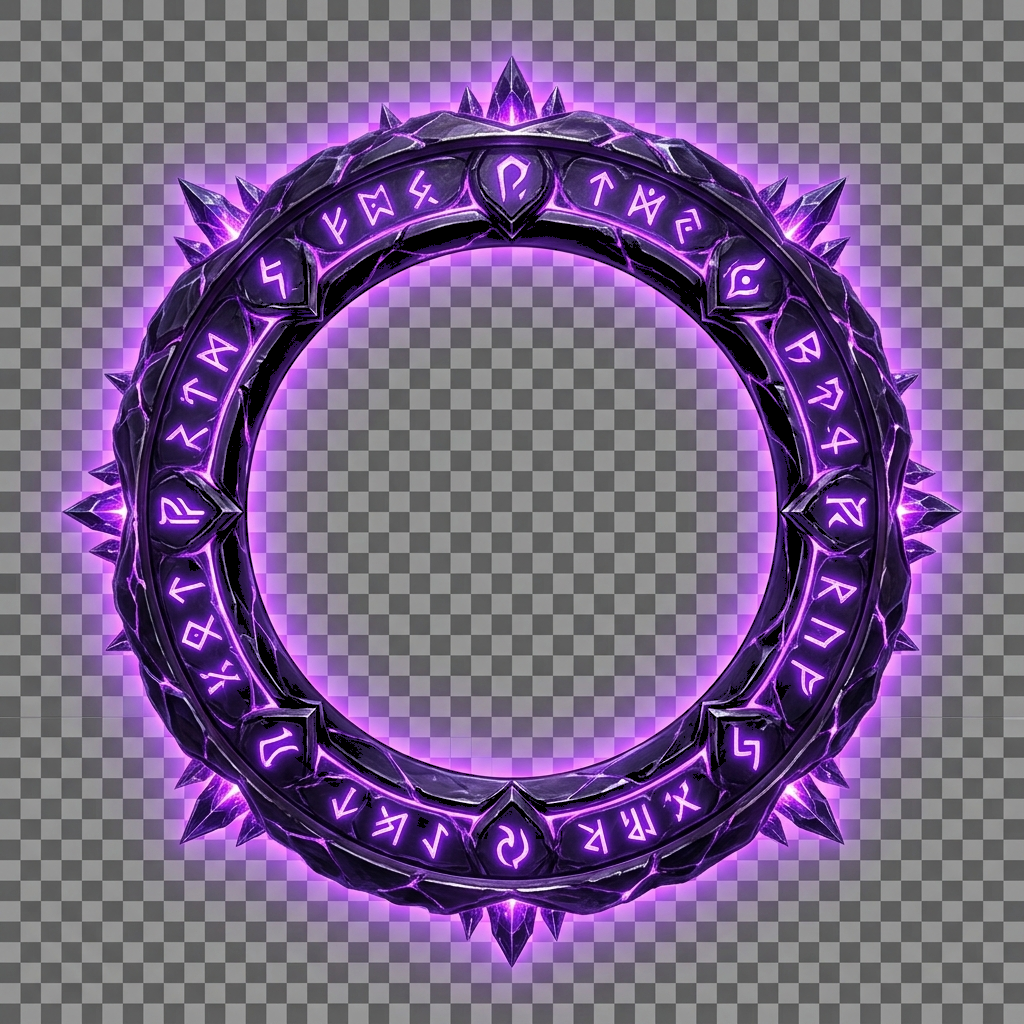
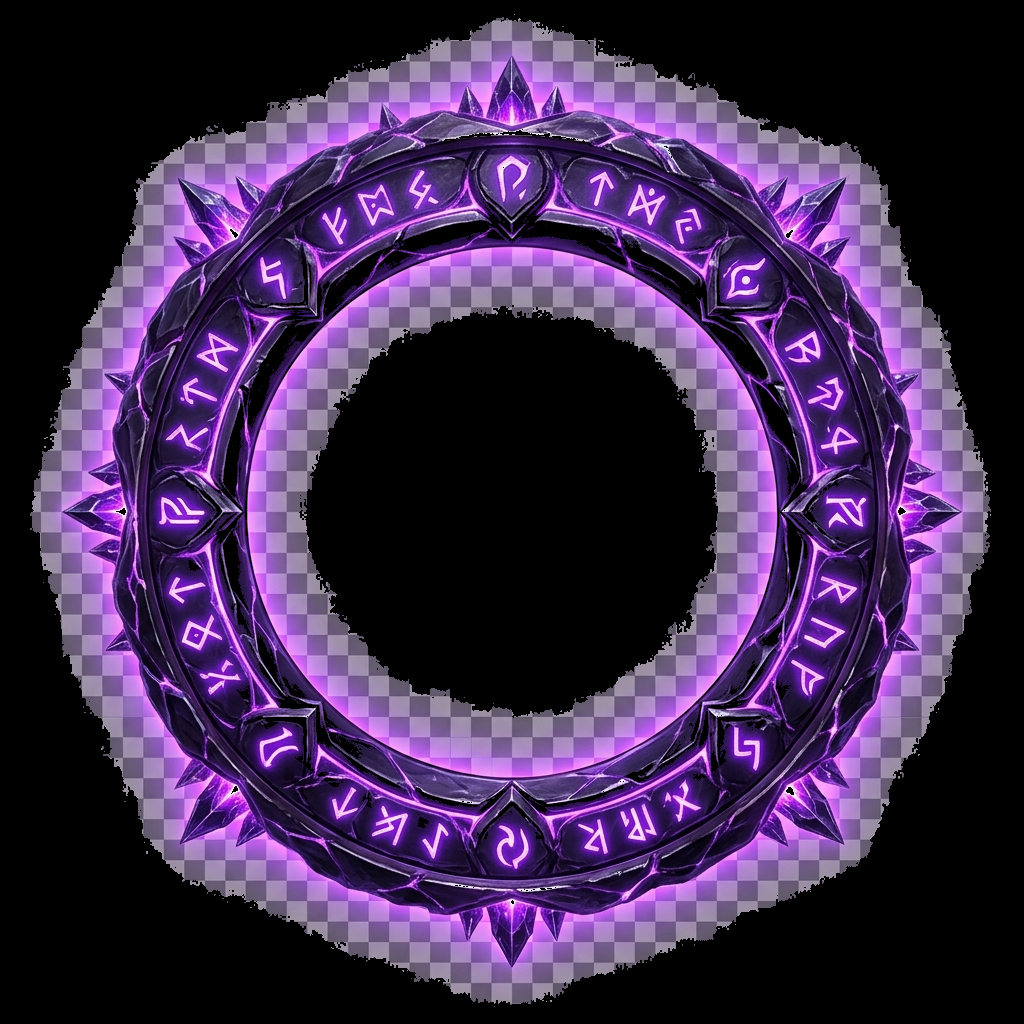
fix: scrub all fake checkerboard pattern pixels to 100% alpha transparent PNG for Marco Obsidian

diff --git a/style.css b/style.css
@@ -5357,11 +5357,30 @@ input:focus, textarea:focus, select:focus {
 .prf-frame-opt:hover { border-color: rgba(139, 92, 246, 0.5); background: rgba(139, 92, 246, 0.06); }
 .prf-frame-opt.active { border-color: #a855f7; background: rgba(168, 85, 247, 0.1); color: #fff; }
 
+.prf-gallery-preview-container {
+    position: relative;
+    width: 52px;
+    height: 52px;
+    display: flex;
+    align-items: center;
+    justify-content: center;
+}
+
+.prf-gallery-mini-avatar {
+    width: 40px;
+    height: 40px;
+    border-radius: 50%;
+    background: radial-gradient(circle, rgba(168, 85, 247, 0.2) 0%, rgba(10, 5, 25, 0.8) 100%);
+    border: 1px dashed rgba(168, 85, 247, 0.4);
+}
+
 .prf-frame-gallery-img {
-    width: 56px;
-    height: 56px;
+    position: absolute;
+    inset: 0;
+    width: 100%;
+    height: 100%;
     object-fit: contain;
-    filter: drop-shadow(0 0 6px rgba(139, 92, 246, 0.6));
+    filter: drop-shadow(0 0 6px rgba(139, 92, 246, 0.8));
 }
 
 .prf-frame-css-preview {

diff --git a/app.js b/app.js
@@ -2874,7 +2874,10 @@ function renderProfileFramesGallery() {
         const info = FRAME_CATALOG[fId] || { name: fId, img: null, desc: '' };
         const isActive = state.activeFrame === fId;
         const preview = info.img
-            ? `<img src="${info.img}" alt="${info.name}" class="prf-frame-gallery-img">`
+            ? `<div class="prf-gallery-preview-container">
+                 <div class="prf-gallery-mini-avatar"></div>
+                 <img src="${info.img}" alt="${info.name}" class="prf-frame-gallery-img">
+               </div>`
             : `<div class="prf-frame-css-preview ${info.cssClass || ''}"><div class="steam-ring"></div><div class="steam-glow"></div></div>`;
         return `
             <div class="prf-frame-opt ${isActive ? 'active' : ''}" onclick="equipFrame('${fId}')">

diff --git a/index.html b/index.html
@@ -9,7 +9,7 @@
     <link rel="preconnect" href="https://fonts.gstatic.com" crossorigin>
     <link href="https://fonts.googleapis.com/css2?family=Outfit:wght@300;400;500;600;700;800;900&family=VT323&family=Rajdhani:wght@400;600;700&family=Cinzel:wght@400;600;700&display=swap" rel="stylesheet">
     <link rel="stylesheet" href="https://cdnjs.cloudflare.com/ajax/libs/font-awesome/6.5.0/css/all.min.css">
-    <link rel="stylesheet" href="style.css?v=4.11">
+    <link rel="stylesheet" href="style.css?v=4.12">
 </head>
 <body>
 
@@ -1503,6 +1503,6 @@
 
     <!-- Supabase JS Client for Realtime Database -->
     <script src="https://cdn.jsdelivr.net/npm/@supabase/supabase-js@2"></script>
-    <script src="app.js?v=4.11"></script>
+    <script src="app.js?v=4.12"></script>
 </body>
 </html>
